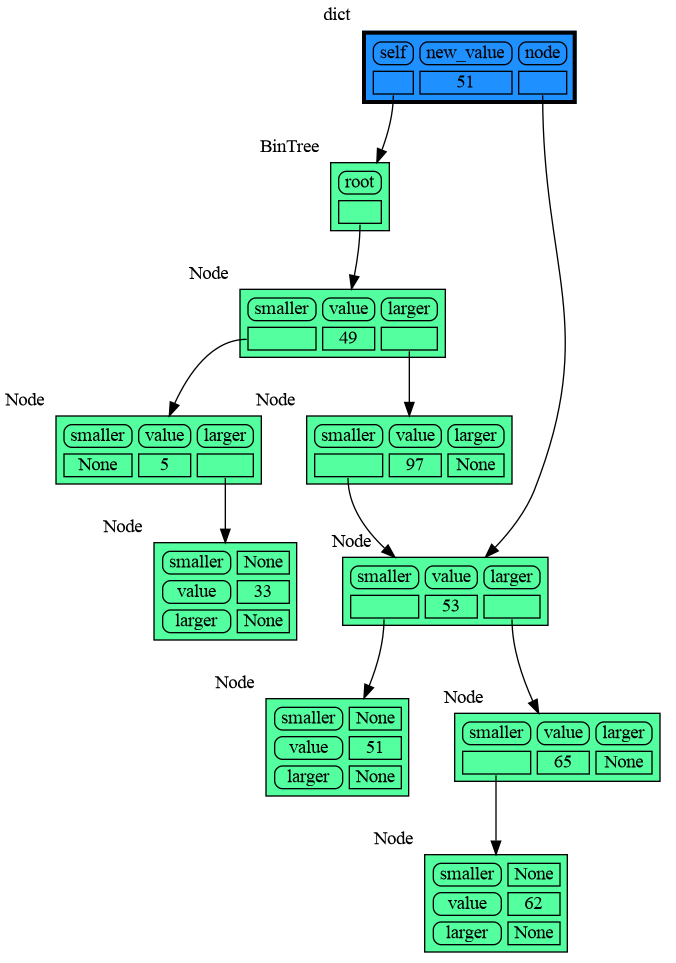
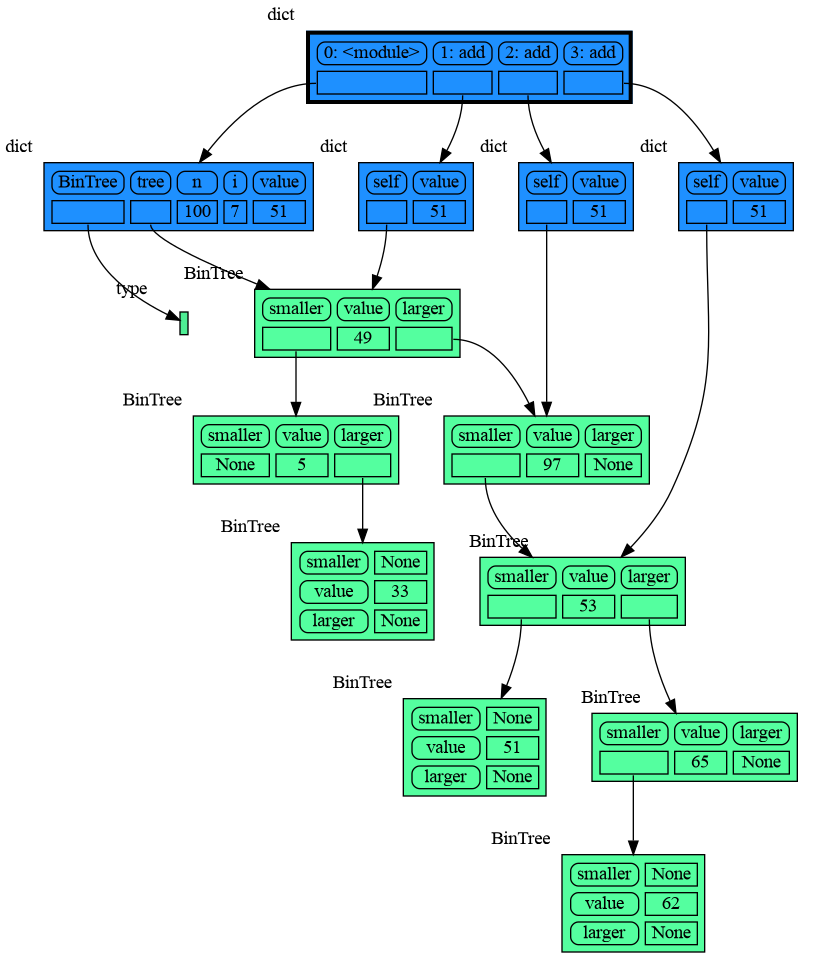
shorter binary tree example

diff --git a/images/bin_tree.py b/images/bin_tree.py
@@ -6,42 +6,33 @@ import memory_graph as mg
 import random
 random.seed(0) # use same random numbers each run
 
-class Node:
-
-    def __init__(self, value):
-        self.smaller = None
-        self.value = value
-        self.larger = None
-
 class BinTree:
 
-    def __init__(self):
-        self.root = None
-
-    def add_recursive(self, new_value, node):
-        if new_value < node.value:
-            if node.smaller is None:
-                node.smaller = Node(new_value)
-            else:
-                self.add_recursive(new_value, node.smaller)
-        else:
-            if node.larger is None:
-                node.larger = Node(new_value)
-            else:
-                self.add_recursive(new_value, node.larger)
-        if new_value == 51:
-            mg.render(locals(), f"bin_tree.png")
-            exit(0)
+    def __init__(self, value=None, smaller=None, larger=None):
+        self.smaller = smaller
+        self.value = value
+        self.larger = larger
 
     def add(self, value):
-        if self.root is None:
-            self.root = Node(value)
+        if self.value is None:
+            self.value = value
+        elif value < self.value:
+            if self.smaller is None:
+                self.smaller = BinTree(value)
+            else:
+                self.smaller.add(value)
         else:
-            self.add_recursive(value, self.root)
+            if self.larger is None:
+                self.larger = BinTree(value)
+            else:
+                self.larger.add(value)
+        if value == 51:
+            mg.render(mg.stack(), f"bin_tree.png")
+            exit(0)
 
 tree = BinTree()
 n = 100
 for i in range(n):
-    new_value = random.randrange(n)
-    tree.add(new_value)
+    value = random.randrange(n)
+    tree.add(value)
 

diff --git a/README.md b/README.md
@@ -411,7 +411,7 @@ class LinkedList:
             new_node.next = self.head
             self.head.prev = new_node
             self.head = new_node
-        mg.block(mg.show, locals()) # <--- draw graph
+        mg.block(mg.show, locals()) # <--- draw locals
 
 linked_list = LinkedList()
 n = 100
@@ -427,42 +427,33 @@ import memory_graph as mg
 import random
 random.seed(0) # use same random numbers each run
 
-class Node:
-
-    def __init__(self, value):
-        self.smaller = None
-        self.value = value
-        self.larger = None
-
 class BinTree:
 
-    def __init__(self):
-        self.root = None
-
-    def add_recursive(self, new_value, node):
-        if new_value < node.value:
-            if node.smaller is None:
-                node.smaller = Node(new_value)
-            else:
-                self.add_recursive(new_value, node.smaller)
-        else:
-            if node.larger is None:
-                node.larger = Node(new_value)
-            else:
-                self.add_recursive(new_value, node.larger)
-        mg.block(mg.show, locals()) # <--- draw graph
+    def __init__(self, value=None, smaller=None, larger=None):
+        self.smaller = smaller
+        self.value = value
+        self.larger = larger
 
     def add(self, value):
-        if self.root is None:
-            self.root = Node(value)
+        if self.value is None:
+            self.value = value
+        elif value < self.value:
+            if self.smaller is None:
+                self.smaller = BinTree(value)
+            else:
+                self.smaller.add(value)
         else:
-            self.add_recursive(value, self.root)
+            if self.larger is None:
+                self.larger = BinTree(value)
+            else:
+                self.larger.add(value)
+        mg.block(mg.show, mg.stack()) # <--- draw stack
 
 tree = BinTree()
 n = 100
 for i in range(n):
-    new_value = random.randrange(n)
-    tree.add(new_value)
+    value = random.randrange(n)
+    tree.add(value)
 ```
 ![bin_tree.png](https://raw.githubusercontent.com/bterwijn/memory_graph/main/images/bin_tree.png)
 
@@ -483,7 +474,7 @@ class HashSet:
             self.buckets[index] = []
         bucket = self.buckets[index]
         bucket.append(value)
-        mg.block(mg.show, locals()) # <--- draw graph
+        mg.block(mg.show, locals()) # <--- draw locals
 
     def contains(self, value):
         index = hash(value) % len(self.buckets)
